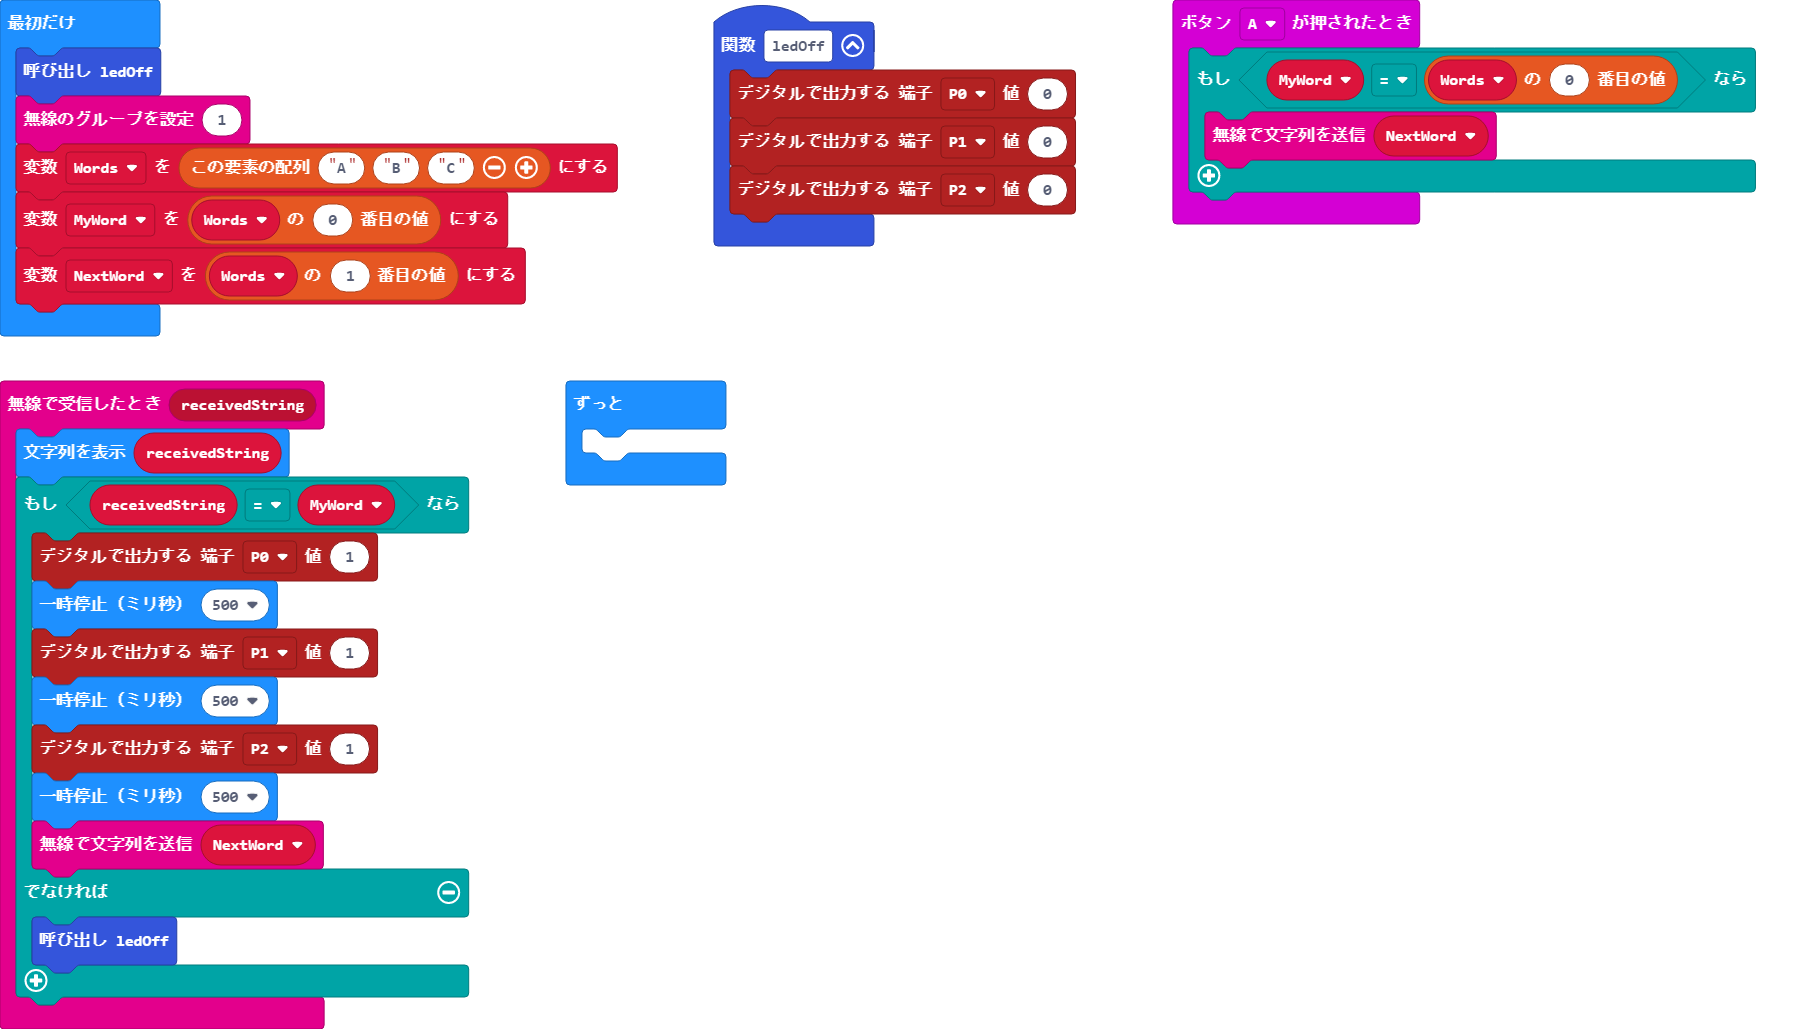
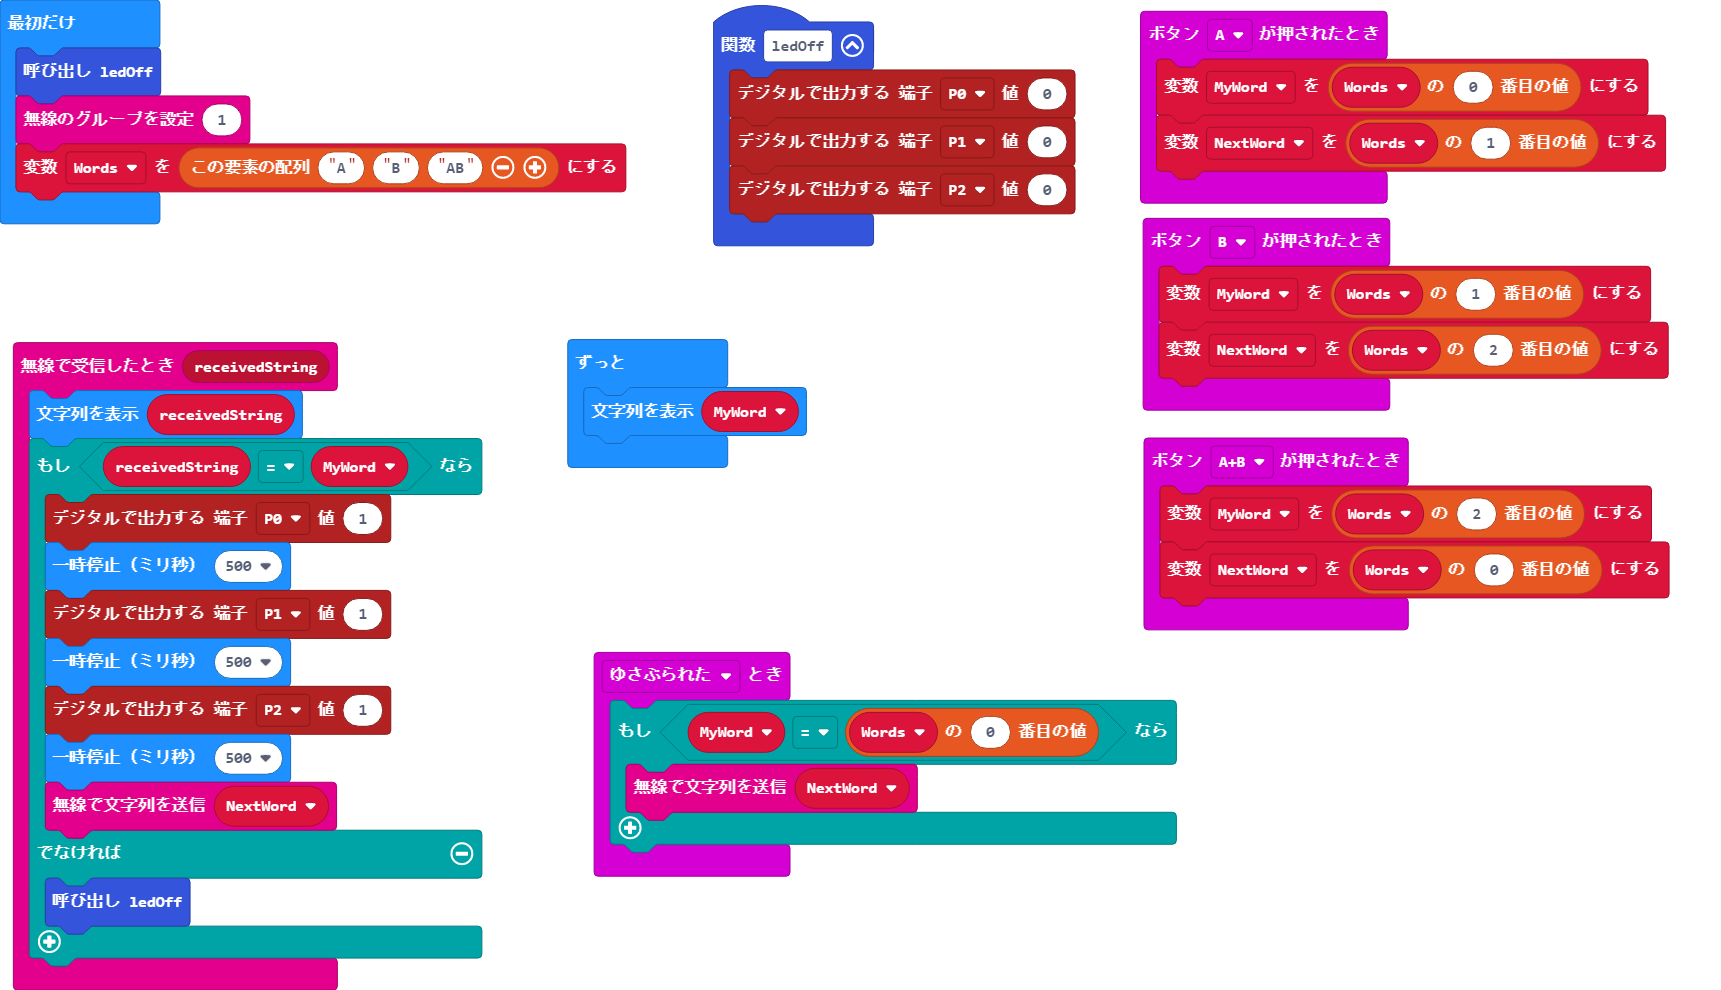
ボタンで自分を設定する．揺さぶられたデータ送信

diff --git a/main.ts b/main.ts
@@ -4,9 +4,17 @@ function ledOff () {
     pins.digitalWritePin(DigitalPin.P2, 0)
 }
 input.onButtonPressed(Button.A, function () {
+    MyWord = Words[0]
+    NextWord = Words[1]
+})
+input.onGesture(Gesture.Shake, function () {
     if (MyWord == Words[0]) {
         radio.sendString("" + (NextWord))
     }
+})
+input.onButtonPressed(Button.AB, function () {
+    MyWord = Words[2]
+    NextWord = Words[0]
 })
 radio.onReceivedString(function (receivedString) {
     basic.showString(receivedString)
@@ -22,14 +30,16 @@ radio.onReceivedString(function (receivedString) {
         ledOff()
     }
 })
+input.onButtonPressed(Button.B, function () {
+    MyWord = Words[1]
+    NextWord = Words[2]
+})
 let NextWord = ""
 let MyWord = ""
 let Words: string[] = []
 ledOff()
 radio.setGroup(1)
-Words = ["A", "B", "C"]
-MyWord = Words[0]
-NextWord = Words[1]
+Words = ["A", "B", "AB"]
 basic.forever(function () {
-	
+    basic.showString("" + (MyWord))
 })
